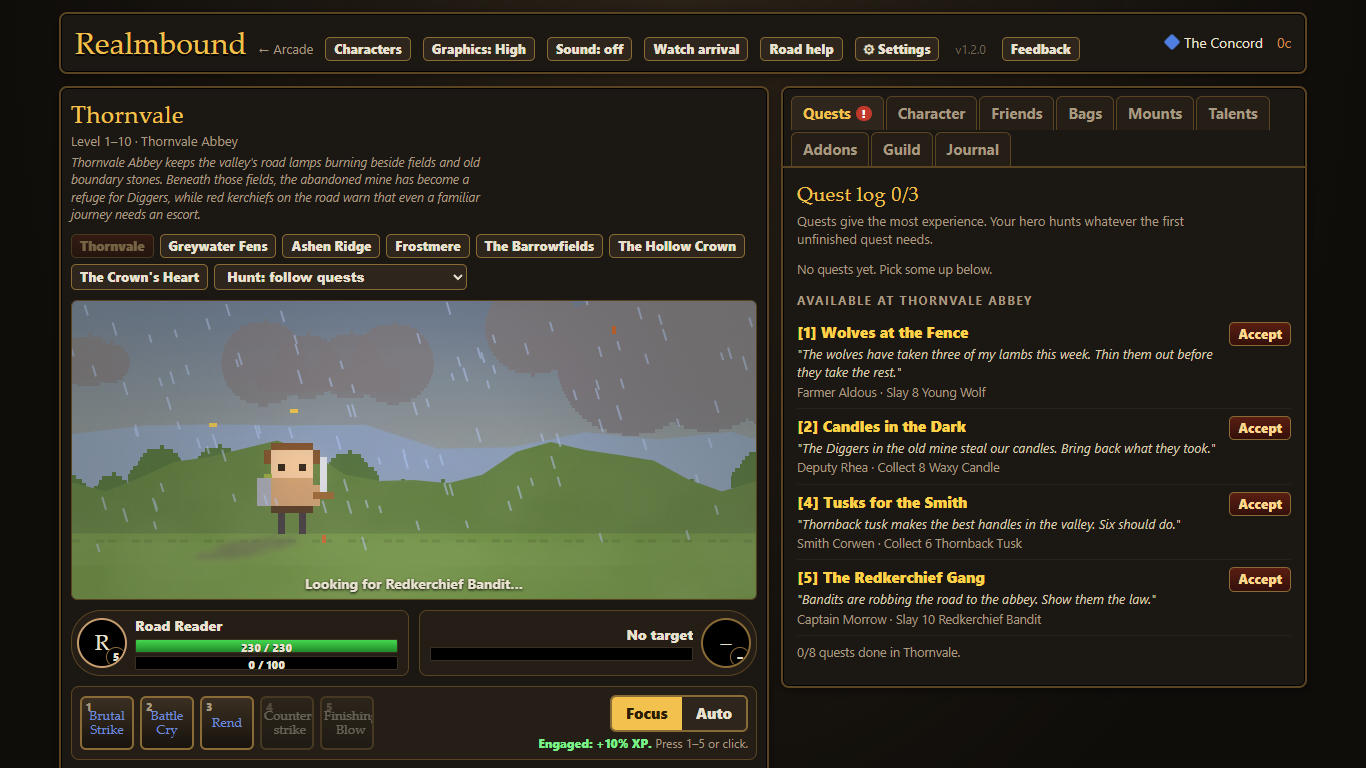
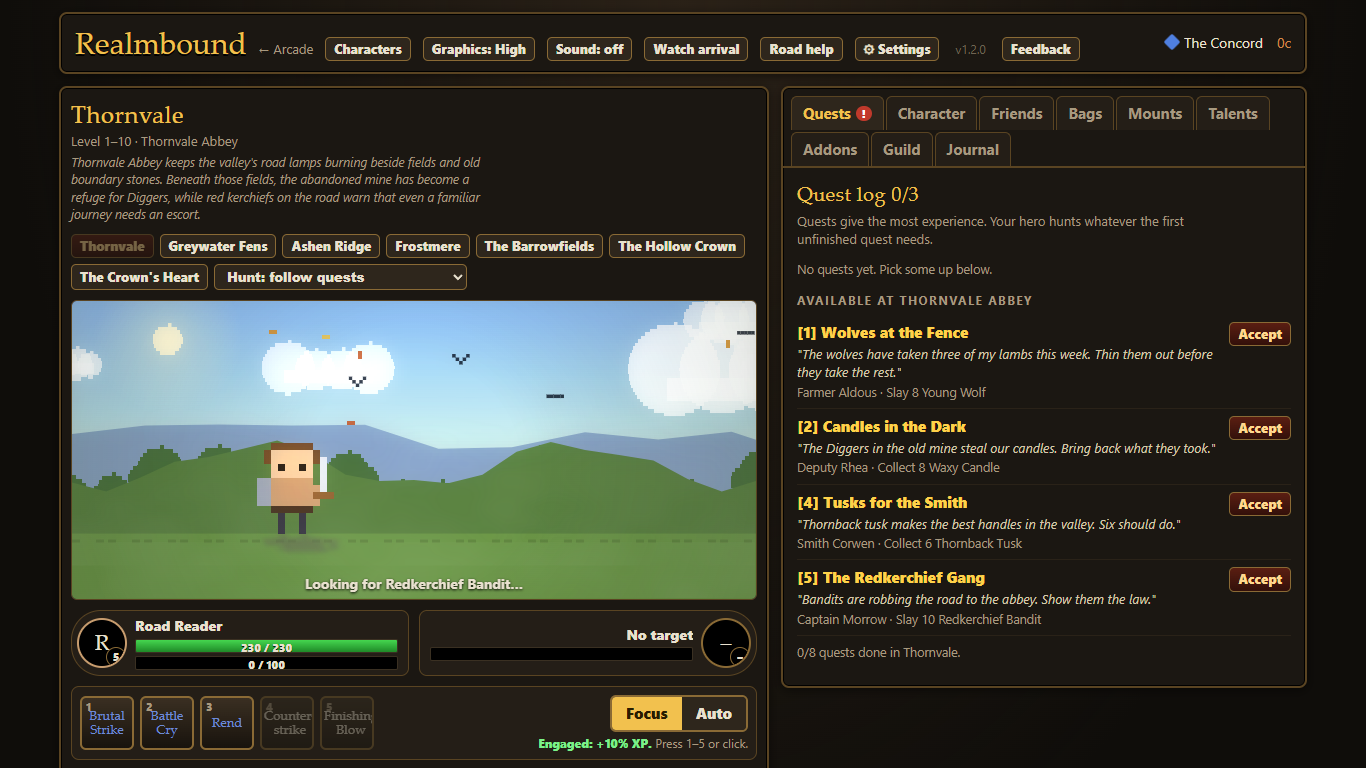
Make guide validation work in fresh Windows checkouts

Changed region(s): [[0.0307, 0.375, 0.5534, 0.5938], [0.1537, 0.6875, 0.1845, 0.7188]]

diff --git a/docs/game-guides.md b/docs/game-guides.md
@@ -7,3 +7,5 @@ Four PNGs in guides/images are real Chrome captures from the running browser gam
 Validation: all links, section anchors and images resolve; keyboard skip links work; spoilers begin closed; no horizontal overflow at 375×812, 1366×768, 1920×1080 and 3440×1440; reading leaves seeded saves unchanged. Realmbound's generated tables pass scripts/update-realmbound-guide.cjs --check. All seven browser runners pass: Realmbound 6683, Wildbond 1354, Diamond 102, Starfall 48, sound 21, offline 15, Otherworld 38, with zero page errors. The pre-existing Otherworld runner retains automatic test backups, while restoring its primary save and hub progress.
 
 Before/after phone and current phone/ultrawide captures: docs/screenshots/game-guides/. No gameplay, engine, cache or version changes.
+
+Review polish (2026-10-08): rebased onto main 24f346b. The table checker now accepts LF and CRLF checkouts while still detecting stale data; regeneration preserves the checkout’s line endings. The existing hall-location assertions accept Claude’s capitalized Guild Hall text. Real game pictures were recaptured from the updated source. No gameplay behavior changed.
